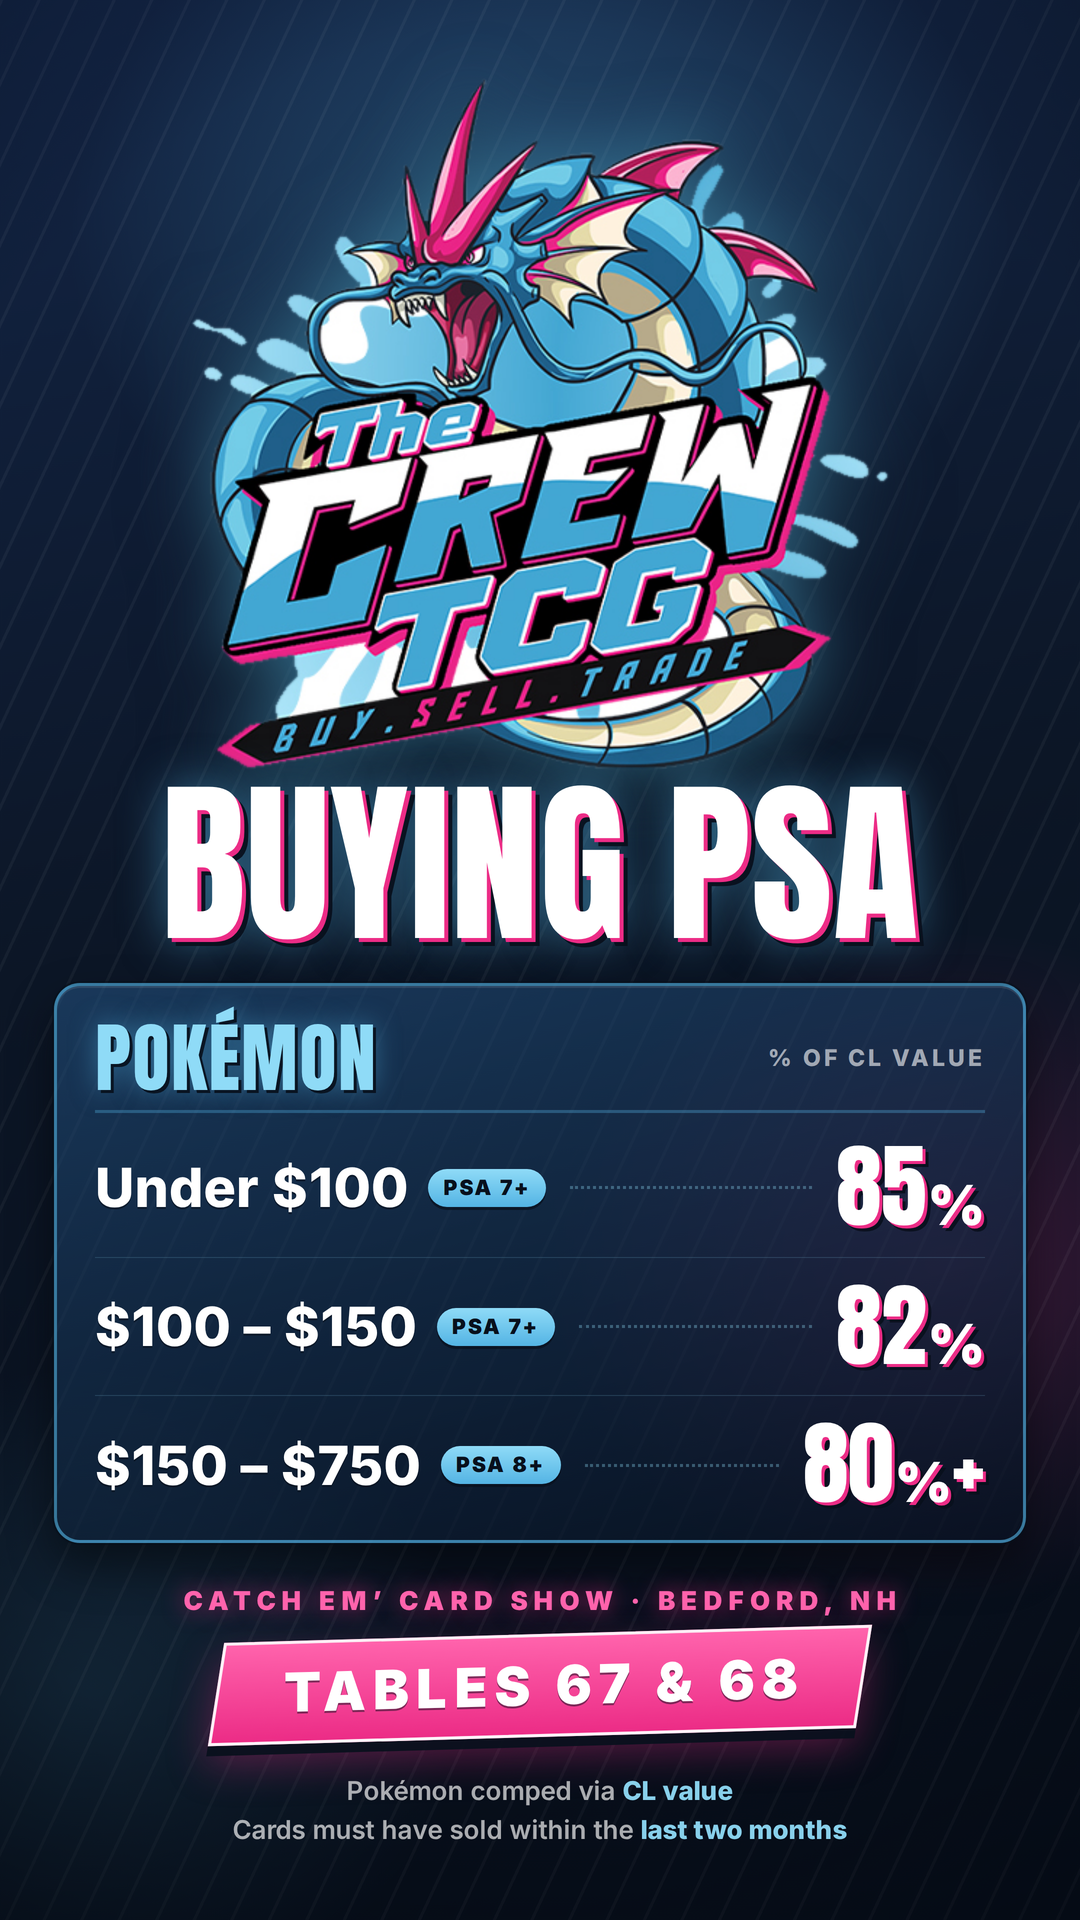
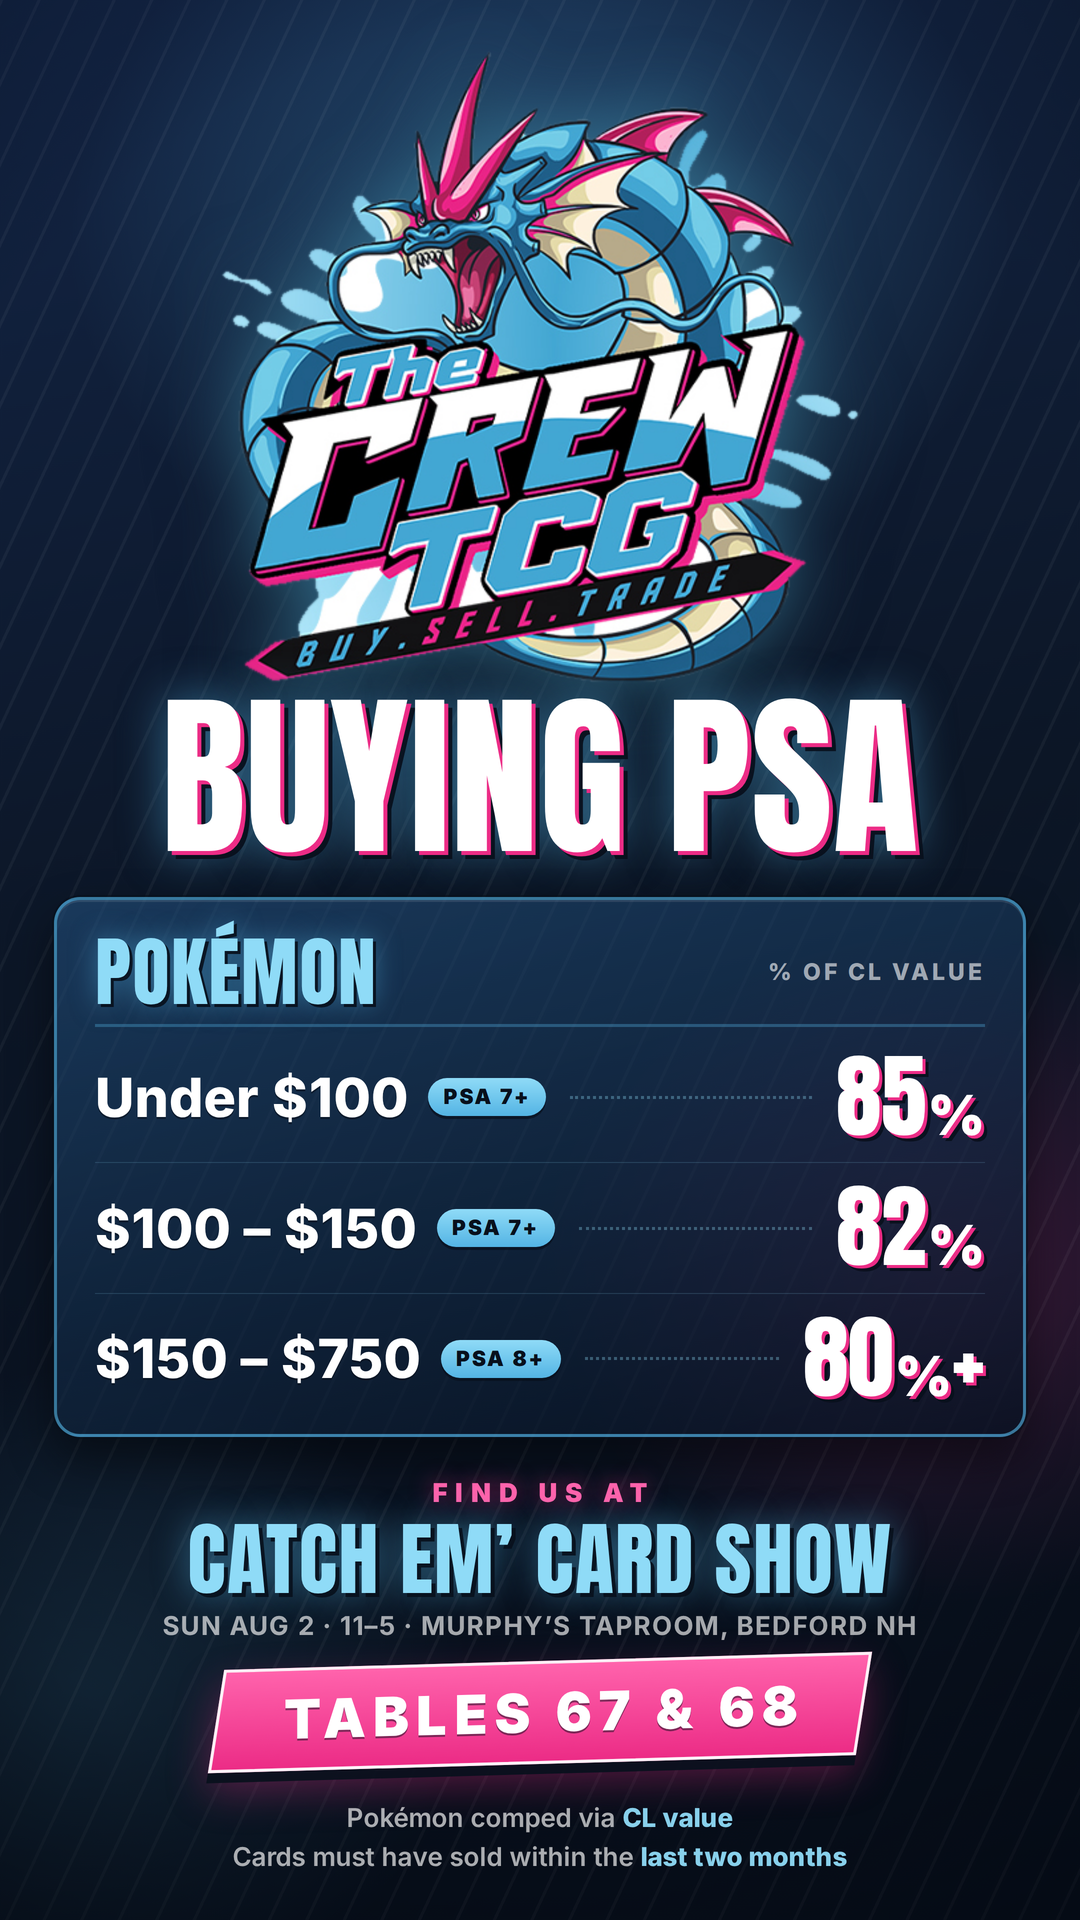
Give the show name display weight on the buying rates ad
The show was previously a small letterspaced eyebrow. It is now the
second largest element on the ad:

- "Catch Em' Card Show" set in Anton at 80px in brand light blue,
  matching the card-title treatment so it sits a clear step below the
  white "Buying PSA" headline
- Adds a pink "Find Us At" lead-in and a venue line carrying the date,
  hours and location
- Trims the logo and rate row padding to fit the taller callout inside
  the safe area

Claude-Session: https://claude.ai/code/session_01GrrccXG3rbm8dyPJ87oBq8

diff --git a/ads/crew-tcg-psa-buying-rates.html b/ads/crew-tcg-psa-buying-rates.html
@@ -44,7 +44,7 @@
 
 /* ---------- logo ---------- */
 .logo{
-  width:700px;display:block;
+  width:640px;display:block;
   filter:drop-shadow(0 0 34px rgba(84,180,228,.55)) drop-shadow(0 14px 26px rgba(0,0,0,.55));
 }
 
@@ -64,7 +64,7 @@
      0 0 46px rgba(84,180,228,.55);
 }
 .banner{
-  margin-top:18px;transform:skewY(-1.6deg) skewX(-9deg);
+  margin-top:20px;transform:skewY(-1.6deg) skewX(-9deg);
   background:linear-gradient(180deg,var(--pink-lt),var(--pink));
   border:3px solid rgba(255,255,255,.92);
   box-shadow:0 10px 0 rgba(8,16,28,.92), 0 18px 40px rgba(236,44,134,.34);
@@ -100,7 +100,7 @@
   color:rgba(255,255,255,.62);
 }
 
-.row{display:flex;align-items:center;gap:20px;padding:26px 0;border-bottom:1px solid rgba(143,219,247,.16)}
+.row{display:flex;align-items:center;gap:20px;padding:22px 0;border-bottom:1px solid rgba(143,219,247,.16)}
 .row:last-child{border-bottom:0;padding-bottom:2px}
 .row-label{
   font-weight:800;font-size:54px;letter-spacing:.01em;color:#fff;white-space:nowrap;
@@ -121,6 +121,25 @@
 .pct i{
   font-family:'Inter',sans-serif;font-weight:900;font-style:normal;
   font-size:.60em;letter-spacing:-.01em;margin-left:.03em;
+}
+
+/* ---------- show / table callout ---------- */
+.findus{
+  margin-top:40px;
+  font-weight:900;font-size:26px;letter-spacing:.30em;text-indent:.30em;
+  text-transform:uppercase;color:var(--pink-lt);
+  text-shadow:0 0 22px rgba(236,44,134,.6);
+}
+.showname{
+  margin-top:12px;text-align:center;
+  font-family:'Anton',sans-serif;font-size:80px;line-height:.98;letter-spacing:.015em;
+  text-transform:uppercase;color:var(--blue-lt);
+  text-shadow:4px 4px 0 rgba(8,16,28,.92), 0 0 34px rgba(84,180,228,.55);
+}
+.venue{
+  margin-top:12px;text-align:center;
+  font-weight:700;font-size:26px;letter-spacing:.05em;
+  text-transform:uppercase;color:rgba(255,255,255,.64);
 }
 
 /* ---------- footer ---------- */
@@ -165,7 +184,9 @@
     </div>
   </div>
 
-  <div class="kicker">Catch Em&#8217; Card Show &middot; Bedford, NH</div>
+  <div class="findus">Find Us At</div>
+  <div class="showname">Catch Em&#8217; Card Show</div>
+  <div class="venue">Sun Aug 2 &middot; 11&ndash;5 &middot; Murphy&#8217;s Taproom, Bedford NH</div>
   <div class="banner"><span>Tables 67 &amp; 68</span></div>
 
   <div class="fine">
